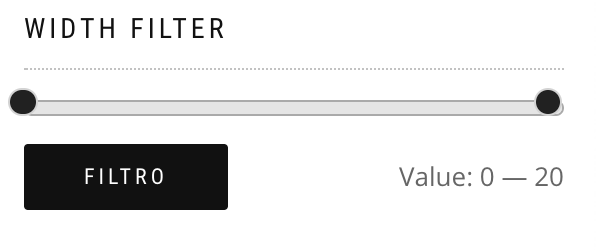
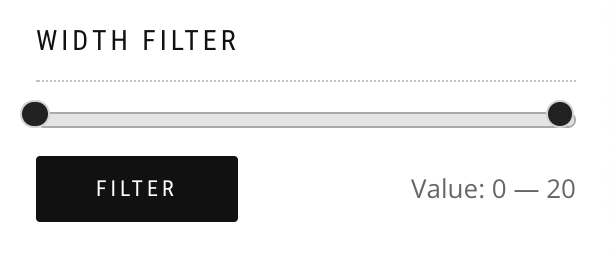
add it translation / edit readme

diff --git a/woo-num-slider.php b/woo-num-slider.php
@@ -4,9 +4,11 @@
  * Plugin Name: Woocommerce Numeric Slider
  * Plugin URI: https://alessiofalai.it
  * Description: A simple widget to filter Woocommerce products by a numeric attribute using a slider.
- * Version: 0.1.1
+ * Version: 0.1.2
  * Author: Alessio Falai
  * Author URI: https://alessiofalai.it
+ * Text Domain: woo-num-slider
+ * Domain Path: /lang/
  */
 class Woo_Num_Slider extends WP_Widget
 {
@@ -20,11 +22,11 @@ class Woo_Num_Slider extends WP_Widget
 			'description' => __('A simple widget to filter Woocommerce products by a numeric attribute using a slider.', 'woo-num-slider')
 		);
 		add_action('woocommerce_product_query', [$this, 'filter_by_current_range']);
-		add_action('plugins_loaded', [$this, 'load_our_textdomain']);
+		add_action('init', [$this, 'load_our_textdomain']);
 		add_action('wp_enqueue_scripts', [$this, 'enqueue_scripts']);
 		parent::__construct('woo-num-slider', 'Woocommerce Numeric Slider', $widget_options);
 
-		/* Compatibility with PHP < 7.3.0 */
+		// Compatibility with PHP < 7.3.0
 		if (!function_exists('array_key_first')) {
 			function array_key_first(array $arr)
 			{
@@ -56,21 +58,22 @@ class Woo_Num_Slider extends WP_Widget
 	/* Output the widget form */
 	public function form($instance)
 	{
-		$title = !empty($instance['title']) ? $instance['title'] : __('New title', 'text_domain');
 		$attributes = get_wc_attributes();
-		$attribute = !empty($instance['attribute']) ? $instance['attribute'] : array_key_first($attributes);
+		$default_title = $attributes[array_key_first($attributes)]->attribute_label;
+		$attribute = !empty($instance['attribute']) ? $instance['attribute'] : $default_title;
+		$title = !empty($instance['title']) ? $instance['title'] : $attribute;
 		$step = !empty($instance['step']) ? $instance['step'] : 5;
 ?>
 		<p>
-			<label for="<?php echo $this->get_field_id('title'); ?>"><?php _e('Title:'); ?></label>
+			<label for="<?php echo $this->get_field_id('title'); ?>"><?php _e('Title', 'woo-num-slider'); ?>:</label>
 			<input class="widefat" id="<?php echo $this->get_field_id('title'); ?>" name="<?php echo $this->get_field_name('title'); ?>" type="text" value="<?php echo esc_attr($title); ?>">
-			<label for="<?php echo $this->get_field_id('attribute'); ?>"><?php _e('Attribute:'); ?></label>
+			<label for="<?php echo $this->get_field_id('attribute'); ?>"><?php _e('Attribute', 'woo-num-slider'); ?>:</label>
 			<select class="widefat" id="<?php echo $this->get_field_id('attribute'); ?>" name="<?php echo $this->get_field_name('attribute'); ?>">
 				<?php foreach ($attributes as $key => $value) : ?>
 					<option <?php selected($attribute, $key); ?> value="<?php echo $key ?>"><?php echo $value->attribute_label ?></option>
 				<?php endforeach ?>
 			</select>
-			<label for="<?php echo $this->get_field_id('step'); ?>"><?php _e('Step:'); ?></label>
+			<label for="<?php echo $this->get_field_id('step'); ?>"><?php _e('Step', 'woo-num-slider'); ?>:</label>
 			<input class="widefat" id="<?php echo $this->get_field_id('step'); ?>" name="<?php echo $this->get_field_name('step'); ?>" type="number" value="<?php echo esc_attr($step); ?>">
 		</p>
 	<?php
@@ -156,7 +159,7 @@ class Woo_Num_Slider extends WP_Widget
 					<input type="hidden" id="<?php echo $max_value_key; ?>" name="<?php echo $max_value_key; ?>" value="<?php echo esc_attr($current_max_value); ?>" data-max="<?php echo esc_attr($max_value); ?>" placeholder="<?php echo esc_attr__('Max value', 'woocommerce'); ?>" />
 					<button type="submit" class="button" style="padding: 10px 30px; line-height: 13px; float: left;"><?php echo esc_html__('Filter', 'woocommerce'); ?></button>
 					<div class="woo_num_label price_label">
-						<?php echo esc_html__('Value:', 'woocommerce'); ?> <span class="from"><?php echo $current_min_value; ?></span> &mdash; <span class="to"><?php echo $current_max_value; ?></span>
+						<?php echo esc_html__('Value', 'woo-num-slider'); ?>: <span class="from"><?php echo $current_min_value; ?></span> &mdash; <span class="to"><?php echo $current_max_value; ?></span>
 					</div>
 					<?php echo wc_query_string_form_fields(null, array($min_value_key, $max_value_key, 'paged'), '', true); ?>
 					<div class="clear"></div>
